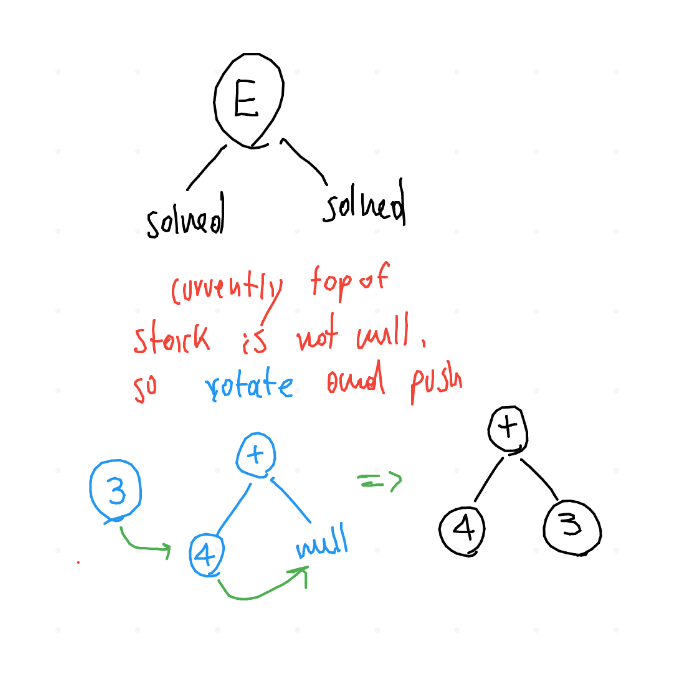
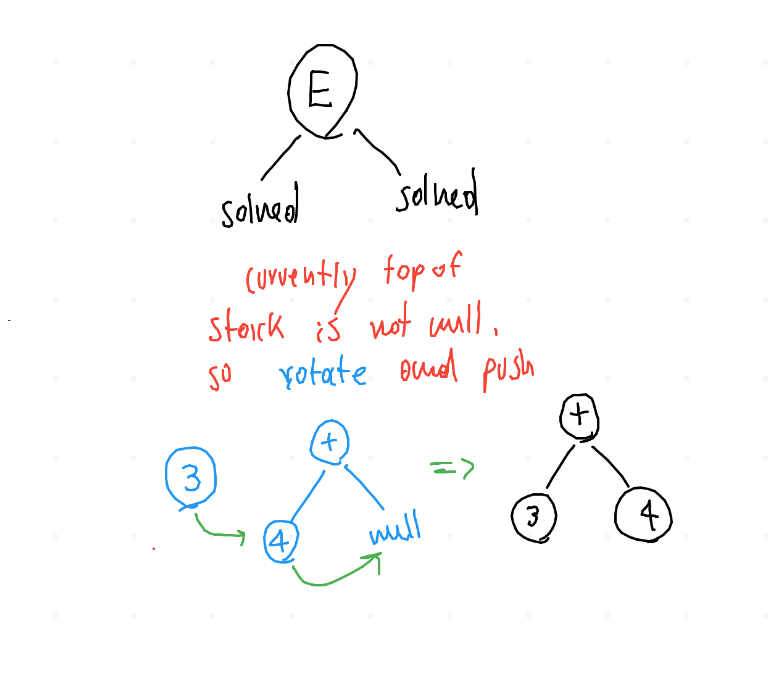
correzione AST

diff --git a/prova/compilatori/171122.html b/prova/compilatori/171122.html
@@ -2,7 +2,7 @@
 <html lang="en">
 <head>
 <title><b>Abstract Syntax Tree construction, 17/11/22</b></title>
-<!-- 2022-11-18 Fri 12:16 -->
+<!-- 2023-01-29 Sun 10:08 -->
 <meta charset="utf-8">
 <meta name="viewport" content="width=device-width, initial-scale=1">
 <meta name="generator" content="Org-mode">
@@ -255,7 +255,7 @@ Ad esempio, considerando la solita grammatica di riferimento, il <b>parse tree</
 l'espressione
 </p>
 \begin{equation}
-4+3
+3+4
 \end{equation}
 <p>
 sarebbe il seguente \(\Downarrow\)
@@ -334,13 +334,13 @@ Il codice che descrive questa parte è il seguente:
 </p>
 <div class="org-src-container">
 
-<pre class="src src-c++"><span style="color: #4f97d7; font-weight: bold;">else</span> {
-     <span style="color: #ce537a; font-weight: bold;">ExprAST</span> *<span style="color: #7590db;">RHS</span> = AStree.top();
-     AStree.pop();
-     <span style="color: #ce537a; font-weight: bold;">ExprAST</span> *<span style="color: #7590db;">LHS</span> = AStree.top();
-     AStree.pop();
-     <span style="color: #4f97d7; font-weight: bold;">if</span> (RHS==<span style="color: #a45bad;">nullptr</span>) <span style="color: #4f97d7; font-weight: bold;">return</span> LHS;
-     <span style="color: #4f97d7; font-weight: bold;">return</span> rotate(LHS,RHS);
+<pre class="src src-c++">else {
+	 ExprAST *RHS = AStree.top();
+	 AStree.pop();
+	 ExprAST *LHS = AStree.top();
+	 AStree.pop();
+	 if (RHS==nullptr) return LHS;
+	 return rotate(LHS,RHS);
    }
 </pre>
 </div>
@@ -367,20 +367,20 @@ elementi che trova nello stack (4 e nullpointer).
 
 <div class="org-src-container">
 
-<pre class="src src-c++"><span style="color: #ce537a; font-weight: bold;">ExprAST</span> *<span style="color: #bc6ec5; font-weight: bold;">ASTBuild</span>(<span style="color: #a45bad;">std</span>::<span style="color: #ce537a; font-weight: bold;">vector</span>&lt;<span style="color: #ce537a; font-weight: bold;">int</span>&gt; &amp;<span style="color: #7590db;">prod</span>, <span style="color: #ce537a; font-weight: bold;">int</span> <span style="color: #7590db;">inner</span>) {
-  <span style="color: #4f97d7; font-weight: bold;">if</span> (inner) {
-    <span style="color: #ce537a; font-weight: bold;">int</span> <span style="color: #7590db;">tok</span> = prod.at(0);
-    <span style="color: #4f97d7; font-weight: bold;">if</span> (isterm(tok)) {
-      <span style="color: #4f97d7; font-weight: bold;">switch</span>(tok) {
-      <span style="color: #4f97d7; font-weight: bold;">case</span> <span style="color: #2d9574;">'+'</span>: <span style="color: #4f97d7; font-weight: bold;">case</span> <span style="color: #2d9574;">'*'</span>:
-        {
-          <span style="color: #4f97d7; font-weight: bold;">auto</span> *<span style="color: #7590db;">RHS</span> = AStree.top();
-          AStree.pop();
-          <span style="color: #4f97d7; font-weight: bold;">auto</span> *<span style="color: #7590db;">LHS</span> = AStree.top();
-          AStree.pop();
-          <span style="color: #ce537a; font-weight: bold;">ExprAST</span> *<span style="color: #7590db;">E</span> = <span style="color: #4f97d7; font-weight: bold;">new</span> <span style="color: #ce537a; font-weight: bold;">BinaryExprAST</span>(tok,LHS,RHS);
-          <span style="color: #4f97d7; font-weight: bold;">return</span> E;
-        }
+<pre class="src src-c++">ExprAST *ASTBuild(std::vector&lt;int&gt; &amp;prod, int inner) {
+  if (inner) {
+	int tok = prod.at(0);
+	if (isterm(tok)) {
+	  switch(tok) {
+	  case '+': case '*':
+	{
+	  auto *RHS = AStree.top();
+	  AStree.pop();
+	  auto *LHS = AStree.top();
+	  AStree.pop();
+	  ExprAST *E = new BinaryExprAST(tok,LHS,RHS);
+	  return E;
+	}
 </pre>
 </div>
 
@@ -399,13 +399,13 @@ in questa parte di codice:
 </p>
 <div class="org-src-container">
 
-<pre class="src src-c++"><span style="color: #4f97d7; font-weight: bold;">else</span> {
-     <span style="color: #ce537a; font-weight: bold;">ExprAST</span> *<span style="color: #7590db;">RHS</span> = AStree.top();
-     AStree.pop();
-     <span style="color: #ce537a; font-weight: bold;">ExprAST</span> *<span style="color: #7590db;">LHS</span> = AStree.top();
-     AStree.pop();
-     <span style="color: #4f97d7; font-weight: bold;">if</span> (RHS==<span style="color: #a45bad;">nullptr</span>) <span style="color: #4f97d7; font-weight: bold;">return</span> LHS;
-     <span style="color: #4f97d7; font-weight: bold;">return</span> rotate(LHS,RHS);
+<pre class="src src-c++">else {
+	 ExprAST *RHS = AStree.top();
+	 AStree.pop();
+	 ExprAST *LHS = AStree.top();
+	 AStree.pop();
+	 if (RHS==nullptr) return LHS;
+	 return rotate(LHS,RHS);
    }
 </pre>
 </div>
@@ -420,17 +420,17 @@ ed eliminare il puntatore nullo!
 
 <div class="org-src-container">
 
-<pre class="src src-c++"><span style="color: #ce537a; font-weight: bold;">ExprAST</span> *<span style="color: #bc6ec5; font-weight: bold;">rotate</span>(<span style="color: #ce537a; font-weight: bold;">ExprAST</span> *<span style="color: #7590db;">First</span>, <span style="color: #ce537a; font-weight: bold;">ExprAST</span> *<span style="color: #7590db;">Rest</span>) {
+<pre class="src src-c++">ExprAST *rotate(ExprAST *First, ExprAST *Rest) {
   printstack();
-  <span style="color: #ce537a; font-weight: bold;">ExprAST</span> *<span style="color: #7590db;">top</span> = Rest;
-  <span style="color: #4f97d7; font-weight: bold;">while</span> (Rest-&gt;right() != <span style="color: #a45bad;">nullptr</span>) {
-    <span style="color: #ce537a; font-weight: bold;">ExprAST</span> *<span style="color: #7590db;">tmp</span> = Rest-&gt;left();
-    Rest-&gt;setval(First,Rest-&gt;right());
-    First = tmp;;
-    Rest = Rest-&gt;right();
+  ExprAST *top = Rest;
+  while (Rest-&gt;right() != nullptr) {
+	ExprAST *tmp = Rest-&gt;left();
+	Rest-&gt;setval(First,Rest-&gt;right());
+	First = tmp;;
+	Rest = Rest-&gt;right();
   }
   Rest-&gt;setval(First,Rest-&gt;left());
-  <span style="color: #4f97d7; font-weight: bold;">return</span> top;
+  return top;
 }
 </pre>
 </div>
@@ -445,7 +445,7 @@ ed eliminare il puntatore nullo!
 </div></div></div>
 <footer id="postamble" class="">
 <div><p class="author">Author: Matteo Lugli</p>
-<p class="date">Created: 2022-11-18 Fri 12:16</p>
+<p class="date">Created: 2023-01-29 Sun 10:08</p>
 <p class="creator"><a href="http://www.gnu.org/software/emacs/">Emacs</a> 26.3 (<a href="http://orgmode.org">Org-mode</a> 9.1.9)</p>
 </div>
 </footer>

diff --git a/prova/reti/sec3.html b/prova/reti/sec3.html
@@ -278,7 +278,7 @@ Entrambi questi protocolli si basano su un procedimento noto come
 </p>
 <ol class="org-ol">
 <li>Il client specifica la <b>versione</b> del protocollo usata, il <b>Session ID</b>, 
-e l2 "Cipher Suites";
+e le "Cipher Suites";
 </li>
 <li>Il server si autentica mandando la <b>catena dei certificati</b>;
 </li>

diff --git a/prova/reti/tcp2.html b/prova/reti/tcp2.html
@@ -490,7 +490,7 @@ Se \(N\) \(<\) LSR \(\rightarrow\) pacchetto <b>duplicato</b>;
 </p>
 </li>
 <li><p>
-Se \(N\) \(<\) LAS \(\rightarrow\) pacchetto <b>out of window</b>, da scartare;
+Se \(N\) \(>\) LAS \(\rightarrow\) pacchetto <b>out of window</b>, da scartare;
 </p>
 </li>
 <li><p>

diff --git a/prova/reti/061122.html b/prova/reti/061122.html
@@ -696,7 +696,7 @@ di root (<b>ICAAN</b>)
 </li>
 <li><p>
 <b>Registration Authority</b>: entità che fornisce servizi di registrazione
-per un TDL.
+per un TLD (Top Level Domain).
 </p>
 </li>
 <li><p>
